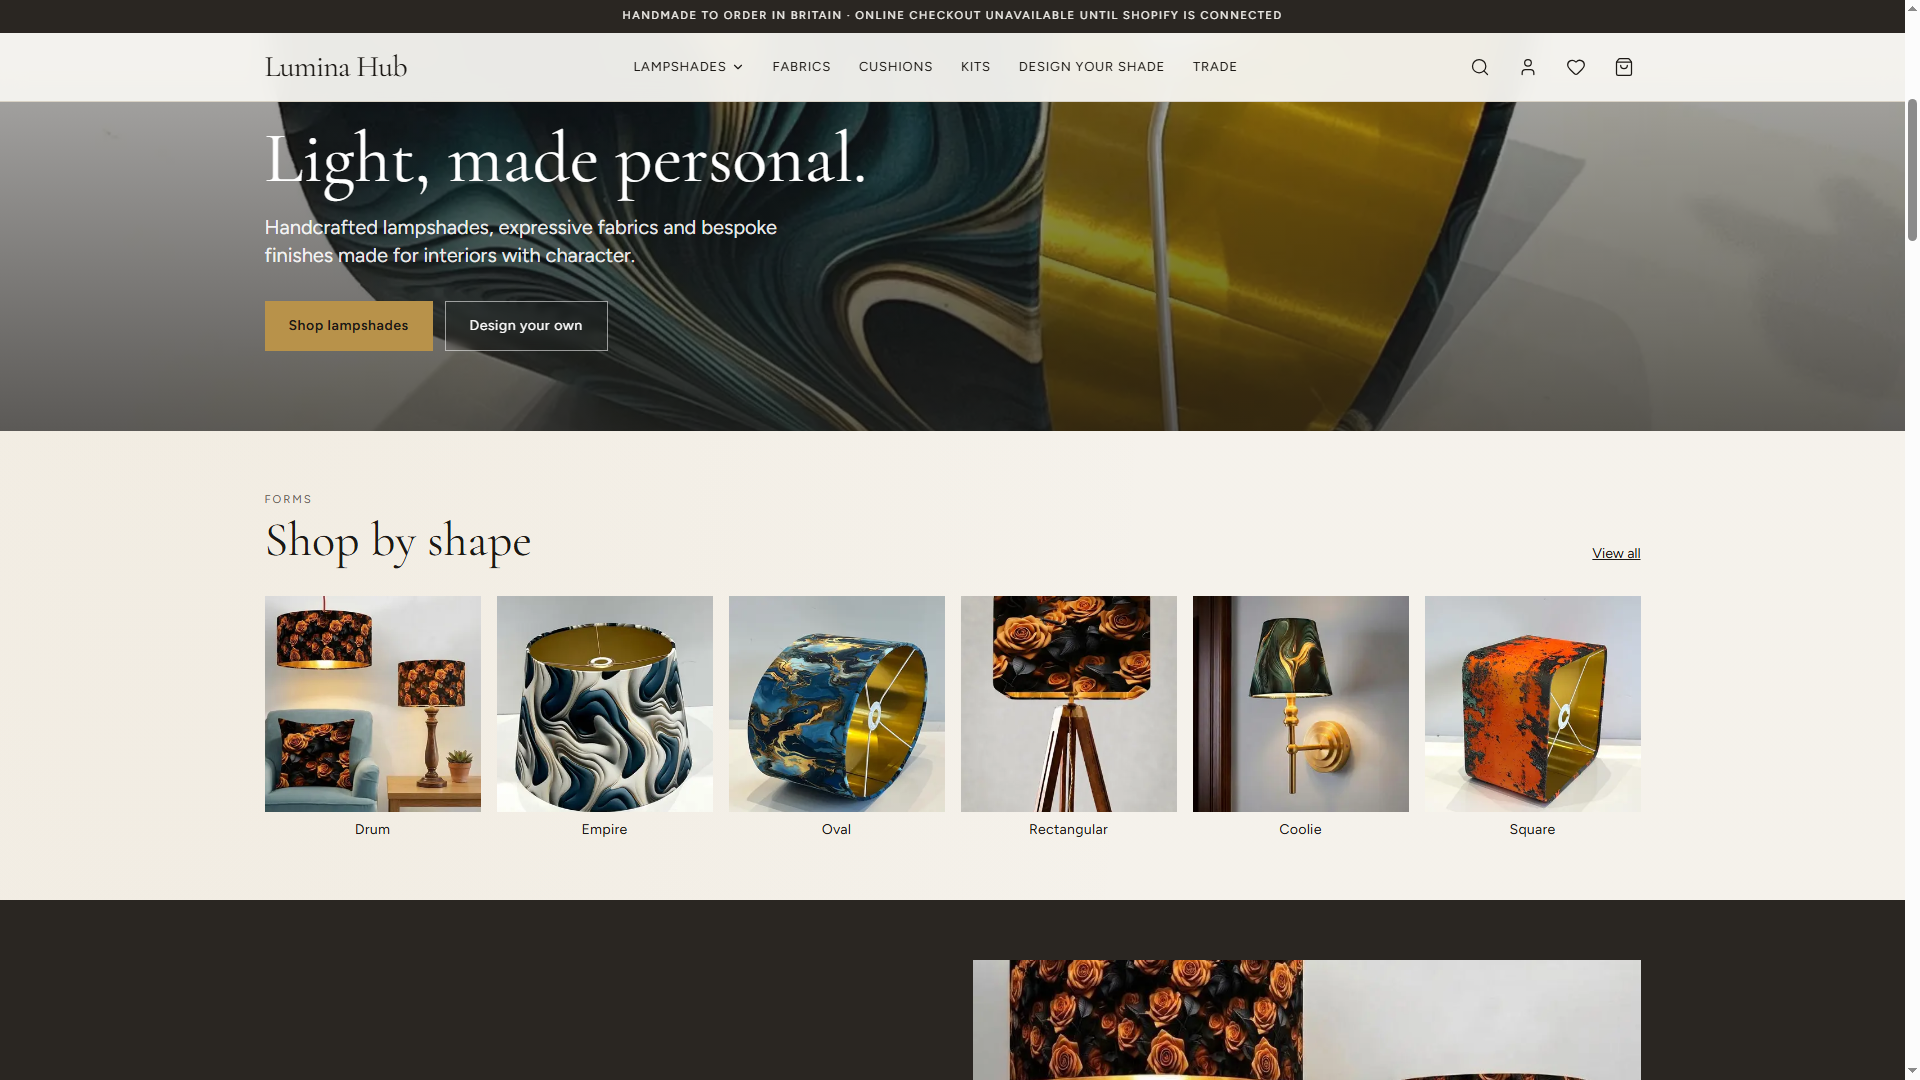
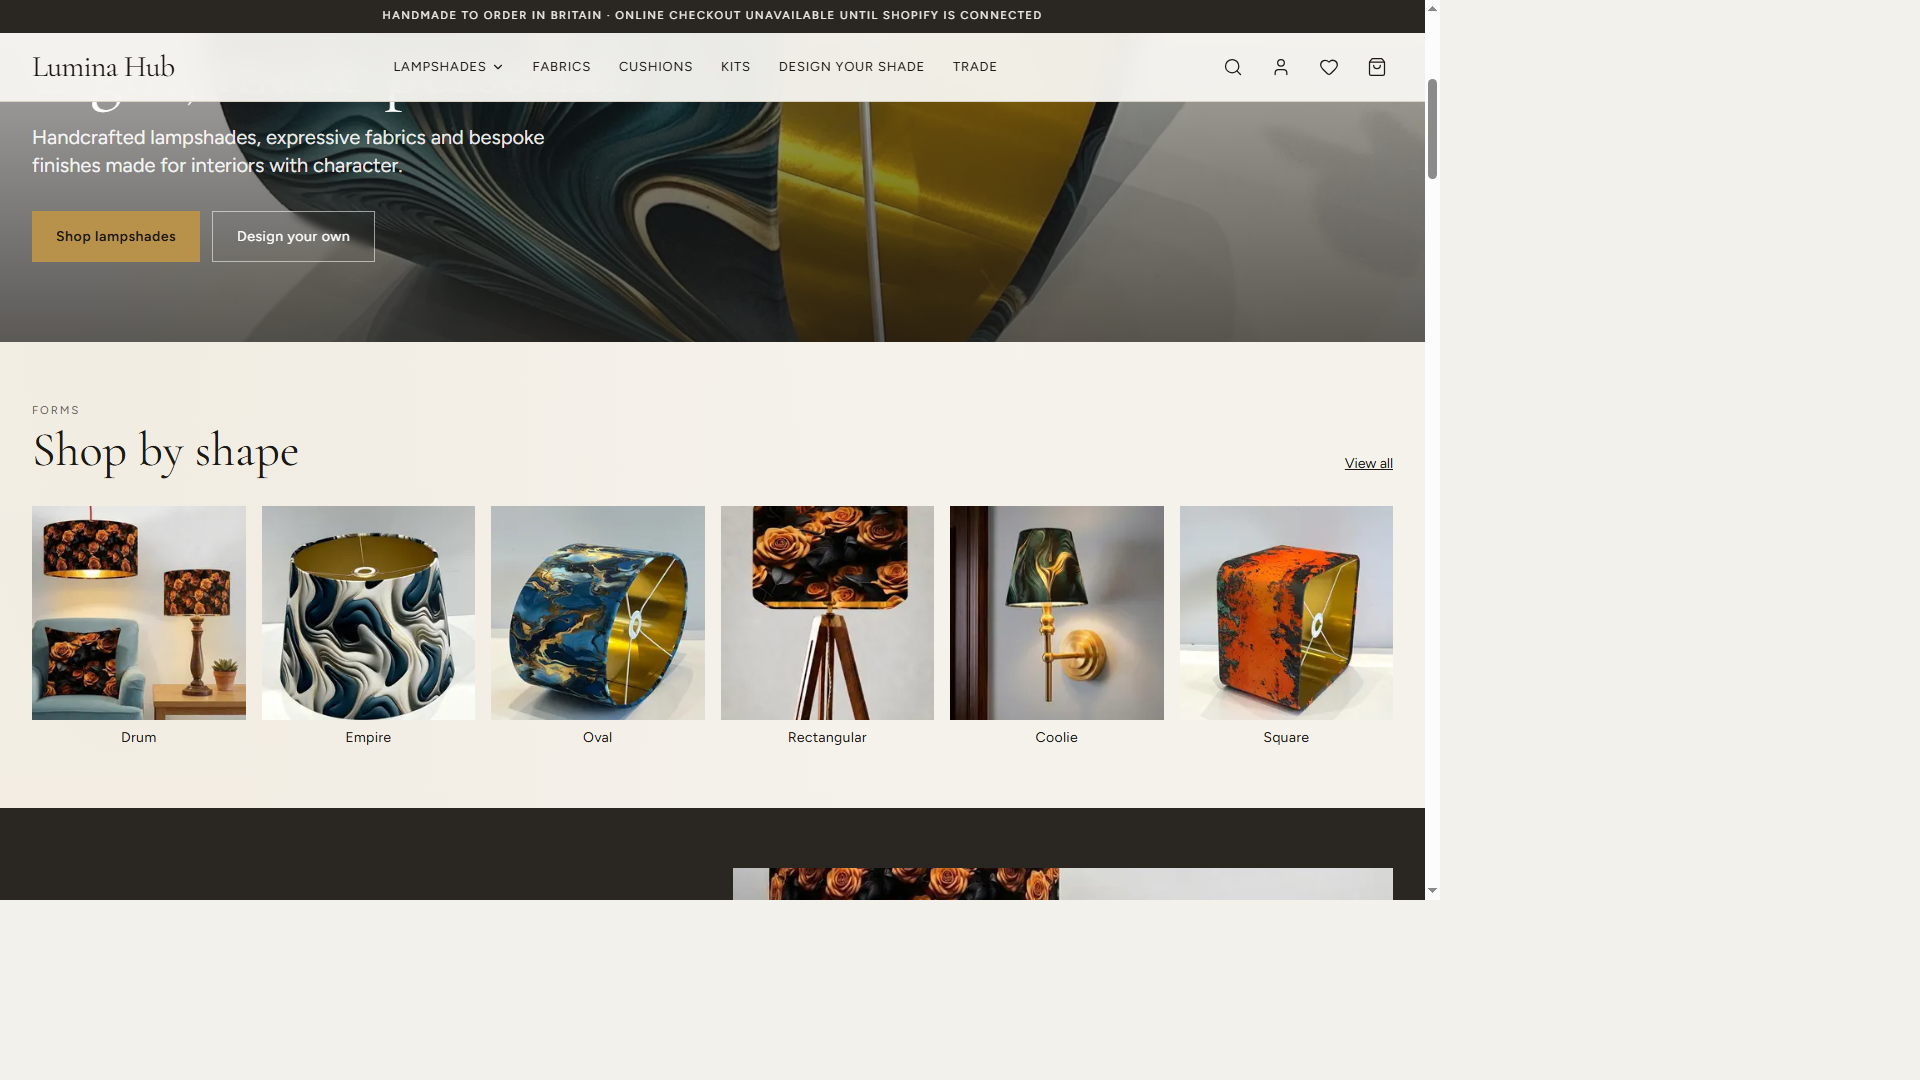
Document homepage QA screenshots and confirm checkout remains 503-blocked.

diff --git a/DELIVERY.md b/DELIVERY.md
@@ -1,6 +1,6 @@
 # Lumina Hub — delivery report
 
-**Commit:** `b77a33d` on `origin/main`  
+**Commit:** `9039103` on `origin/main`  
 **Production URL:** https://luminahub-lyart.vercel.app/  
 **Also:** `lumina` Vercel project (same repo)  
 **Do not mark checkout complete** — Shopify Storefront tokens are not configured; checkout returns **503**.
@@ -9,9 +9,9 @@
 
 | Item | Status |
 |------|--------|
-| Shop by shape placeholders | Replaced with real `/media/products/…` photos |
+| Shop by shape placeholders | Replaced with real `/media/products/…` photos (square crops, `object-cover`) |
 | Shop by mood placeholders | Real catalog covers (unique tiles) |
-| Design your shade CTA imagery | Real lifestyle/product photos; no SVG atelier fallback on homepage |
+| Design your shade CTA imagery | Real lifestyle/product photos; honest “save / enquire” copy (no add-to-bag claim) |
 | Selected pieces mix | 2 lampshades + 2 fabrics + 2 cushions + 2 kits |
 | Display titles | Shortened on cards via `shortDisplayTitle`; PDP keeps full title + description |
 | Vertical gaps | Reduced `section-pad` + collection/PDP spacing |
@@ -19,8 +19,30 @@
 | Configured shade → bag | Disabled; enquire / save design only |
 | Announcement | `Online checkout unavailable until Shopify is connected` |
 | Catalog/PDP placeholders | HEIC / demo-asset URLs filtered from shop & gallery |
+| Checkout API (valid cart) | **503** `mode: blocked` until Storefront tokens |
 
-Screenshots: `data/homepage-screenshots/` (desktop + mobile for hero, shape, design, selected, mood; plus collection/PDP/cart captures from this pass).
+Screenshots (this pass): `data/homepage-screenshots/`
+
+| View | Files |
+|------|--------|
+| Homepage desktop | `desktop-hero-announcement.png`, `desktop-shop-by-shape.png`, `desktop-design-your-shade.png`, `desktop-selected-pieces.png` |
+| Homepage mobile | `mobile-home-hero.png`, `mobile-shop-by-shape.png`, `mobile-shop-by-mood.png`, `mobile-selected-pieces.png`, `mobile-hero-announcement.png` |
+| Collection | `desktop-collection-lampshades.png`, `mobile-collection-lampshades.png` |
+| PDP | `desktop-pdp.png`, `mobile-pdp.png` |
+| Cart | `desktop-cart.png`, `mobile-cart.png` |
+
+## Route / media verification (production)
+
+| Check | Result |
+|-------|--------|
+| `/` | 200 |
+| `/shop/lampshades` | 200 · 48 pieces |
+| `/product/[slug]` | 200 · gallery images via `/_next/image` → `/media/…` 200 |
+| `/cart` | 200 |
+| `/design-your-shade` | 200 |
+| Sample media JPEG/PNG | 200 (`Content-Type: image/jpeg` / `image/png`) |
+| `POST /api/checkout` (real product + shipping) | **503** blocked (Shopify unconfigured) |
+| `npm run build` | Passes locally |
 
 ## Checkout / commerce (honest)
 
@@ -40,6 +62,7 @@ Screenshots: `data/homepage-screenshots/` (desktop + mobile for hero, shape, des
 4. Real `RESEND_API_KEY` for contact/newsletter email delivery
 5. Owner review of legal pages before public launch
 6. Configurator options still not mapped to Shopify variants (studio-only)
+7. Some imported product titles remain lowercase / verbose at source (cards shorten; PDP shows full title)
 
 ## Commands
 
